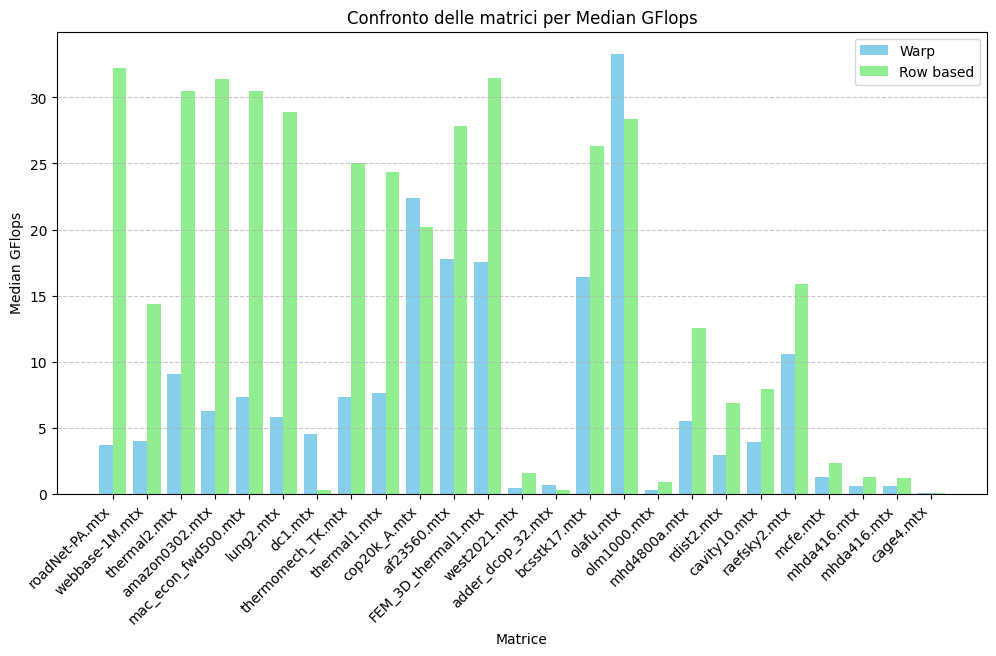
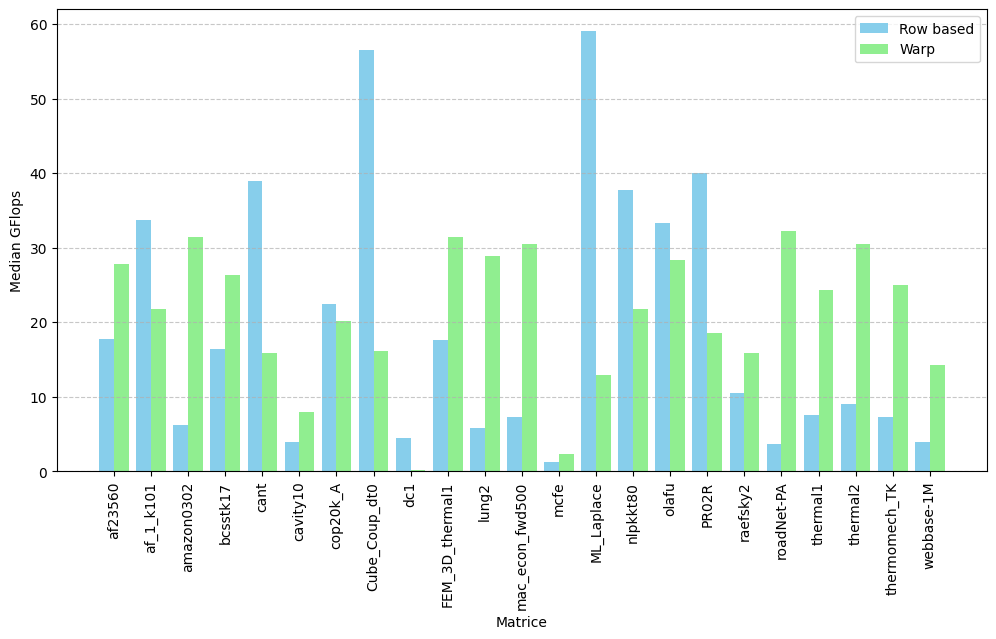
grafici rivisitati XDXD

diff --git a/results/graph_builder_CSR_compare.py b/results/graph_builder_CSR_compare.py
@@ -10,11 +10,8 @@ def compare_matrices(file_path1, file_path2, output_path):
     df1['avg_nnz_per_row'] = df1['NZ'] / df1['M']
     df1['density'] = df1['NZ'] / (df1['M'] * df1['N'])
 
-    # Filtra le matrici secondo la condizione specificata e fai una copia esplicita
-    df1_filtered = df1[(df1['avg_nnz_per_row'] < 25) | (df1['density'] > 1.5e-3)].copy()
-
-    # Calcola la grandezza della matrice
-    df1_filtered.loc[:, 'Size'] = df1_filtered['NZ'] / (df1_filtered['M'] * df1_filtered['N'])
+    # Filtra le matrici che NON rispettano la condizione
+    df1_filtered = df1[~((df1['avg_nnz_per_row'] < 25) | (df1['density'] > 1.5e-3))].copy()
 
     # Carica il secondo file CSV
     df2 = pd.read_csv(file_path2)
@@ -23,26 +20,19 @@ def compare_matrices(file_path1, file_path2, output_path):
     df2['avg_nnz_per_row'] = df2['NZ'] / df2['M']
     df2['density'] = df2['NZ'] / (df2['M'] * df2['N'])
 
-    # Filtra le matrici secondo la condizione specificata e fai una copia esplicita
-    df2_filtered = df2[(df2['avg_nnz_per_row'] < 25) | (df2['density'] > 1.5e-3)].copy()
+    # Filtra le matrici che NON rispettano la condizione
+    df2_filtered = df2[~((df2['avg_nnz_per_row'] < 25) | (df2['density'] > 1.5e-3))].copy()
 
-    # Calcola la grandezza della matrice
-    df2_filtered.loc[:, 'Size'] = df2_filtered['NZ'] / (df2_filtered['M'] * df2_filtered['N'])
-
-    # Ordina i dati per grandezza della matrice
-    df1_sorted = df1_filtered.sort_values(by='Size')
-    df2_sorted = df2_filtered.sort_values(by='Size')
-
-    # Seleziona solo le matrici comuni tra i due file
-    common_matrices = set(df1_sorted['Matrix']).intersection(set(df2_sorted['Matrix']))
+    # Trova le matrici comuni tra i due file
+    common_matrices = set(df1_filtered['Matrix']).intersection(set(df2_filtered['Matrix']))
 
     # Filtra entrambi i DataFrame per contenere solo le matrici comuni
-    df1_common = df1_sorted[df1_sorted['Matrix'].isin(common_matrices)]
-    df2_common = df2_sorted[df2_sorted['Matrix'].isin(common_matrices)]
+    df1_common = df1_filtered[df1_filtered['Matrix'].isin(common_matrices)].copy()
+    df2_common = df2_filtered[df2_filtered['Matrix'].isin(common_matrices)].copy()
 
-    # Ordina per grandezza della matrice
-    df1_common = df1_common.sort_values(by='Size')
-    df2_common = df2_common.sort_values(by='Size')
+    # Ordina alfabeticamente ignorando maiuscole e minuscole
+    df1_common = df1_common.sort_values(by='Matrix', key=lambda x: x.str.lower())
+    df2_common = df2_common.sort_values(by='Matrix', key=lambda x: x.str.lower())
 
     # Traccia il grafico a barre per confrontare le matrici
     plt.figure(figsize=(12, 6))
@@ -60,8 +50,8 @@ def compare_matrices(file_path1, file_path2, output_path):
     plt.xlabel("Matrice")
     plt.ylabel("Median GFlops")
 
-    # Rotazione delle etichette sull'asse X per una migliore leggibilità
-    plt.xticks(x, df1_common['Matrix'].str.replace('.mtx', '', regex=False), rotation=45, ha='right')
+    # Imposta le etichette sull'asse X in verticale
+    plt.xticks(x, df1_common['Matrix'].str.replace('.mtx', '', regex=False), rotation=90, ha='center')
 
     # Aggiungi la griglia per migliorare la leggibilità
     plt.grid(True, axis='y', linestyle='--', alpha=0.7)
@@ -82,5 +72,5 @@ def compare_matrices(file_path1, file_path2, output_path):
 # Esempio di utilizzo
 file_path1 = "performance-CSR-warp.csv"
 file_path2 = "performance-CSR.csv"
-output_path = "graphs/littleMAT-CSR-comaprison.png"
+output_path = "graphs/bigMAT-CSR-comparison.png"
 compare_matrices(file_path1, file_path2, output_path)
